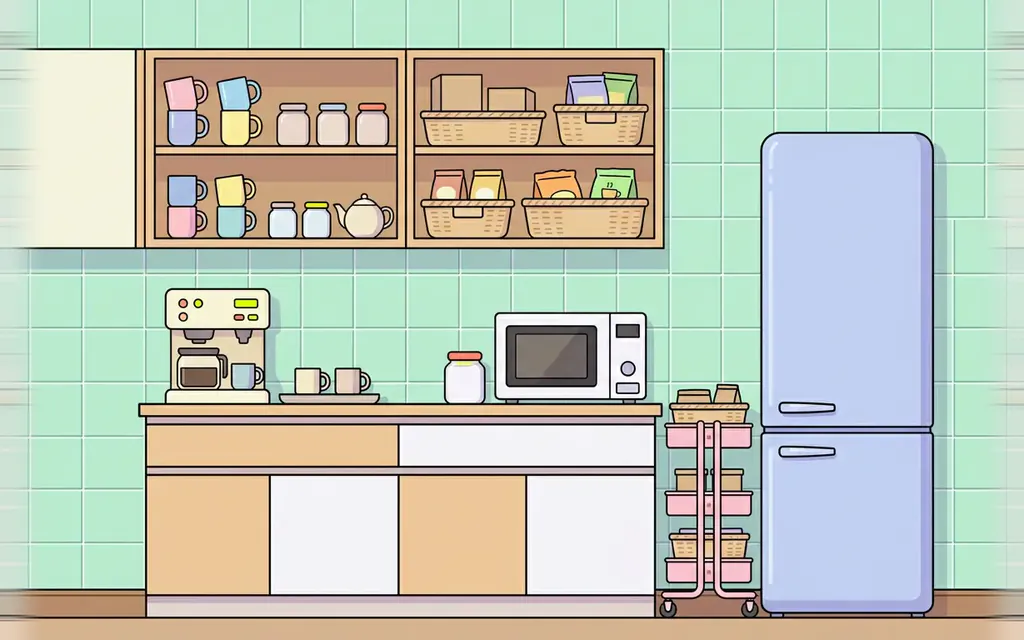
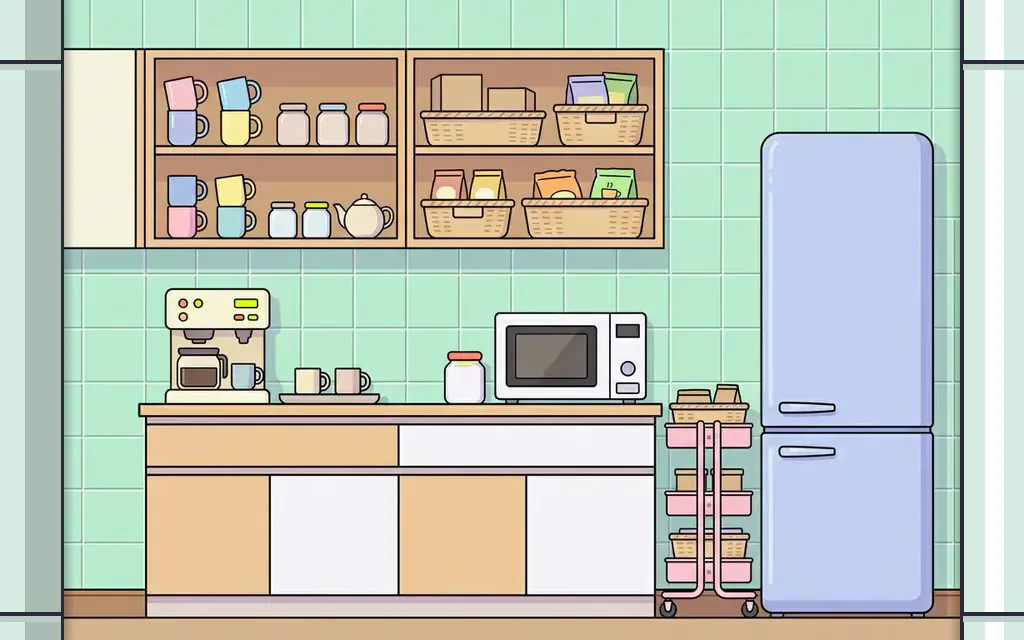
fix: hide part-1 wall tile joins behind matching pillars

Changed region(s): [[0.9062, 0.0, 1.0, 1.0], [0.0, 0.0, 0.0938, 1.0]]

diff --git a/public-office/art/SOURCES.md b/public-office/art/SOURCES.md
@@ -474,3 +474,14 @@ Spend **3.5 credits** (part-2 total **116 cr**, balance 1240.33 → 1236.83).
 | `prop-paper-jam.webp` (cut out as props: 512×512, 8 px margin, centred) | nano_banana_flash | 1.5 | $STYLE. Single game obstacle prop icon, one object only, centered, large and bold with a thick dark outline and saturated neon accent colors so it reads clearly at small size against pastel backgrounds, slight three-quarter view, on a pure flat white background, no shadow, no ground, no people, no hands. The object: one chunky floor-standing office photocopier printer standing on the ground on its own base, simple boxy silhouette, light blue-grey body with a very thick dark outline, a single sheet of paper sticking out of its slot, a small glowing orange warning light on the front panel. Only the printer: no paper cloud, no crumpled paper pile, no flying papers, no motion lines, no smoke. |
 | `cut/locked.webp` (9:16 → 1080×1920; archive thumbnail for locked records) | nano_banana_flash | 1.5 | $STYLE. Vertical 9:16 still illustration with a fully drawn background, absolutely no lettering, no words, no numbers: a closed secret office dossier, a thick manila folder lying on a dark desk under a desk lamp, tied with a red string, a big plain round red ink stamp mark with no letters on the cover, a chunky golden padlock on the string, a few blank black redaction bars on a paper peeking out, soft dim mysterious lighting, calm and cute not scary. |
 | `ach/stamps-15.webp` (128×128, 1 px margin) | gpt_image_2_5 | 0.5 | Round achievement badge icon for a mobile game, a single circular medal filling the whole square frame edge to edge, thick bold dark outline, pastel circular face with a neon colored rim, one big simple centered symbol readable at 64 pixels, bright Korean webtoon comic style, bold clean outlines, flat cel shading, transparent background outside the circle, no text, no letters, no numbers, no digits, no logos. The symbol: a cute wooden Korean seal stamp with a red ink base pressing onto a little stamp card completely filled with small round red stamp marks (plain circles, no letters), sparkles, red rim. |
+
+Part-1 walls (2026-11-05, 0 credits): the same pole pass was applied to `wall-0-*`, `wall-0-dawn-*`, `wall-1-*`, `wall-2-*` and
+`wall-3-*`. The poles are painted over the shipped files with a 64 px half, which covers the old smeared blend completely; the rest
+of each wall is unchanged. Pillar colours by theme:
+- theme 0: cream office column #EEE4D2
+- theme 0-dawn: lobby pillar #E2D6DE
+- theme 1: mint corridor pillar #D6ECE2
+- theme 2: lilac mullion pillar #D4C8E8
+- theme 3: peach elevator-hall pillar #F0D6C6
+
+Every join was checked by composing a|b|c|a at 512 px.
